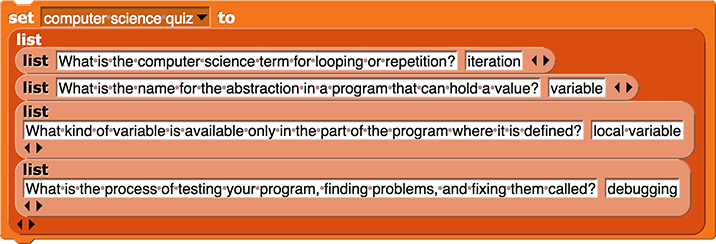
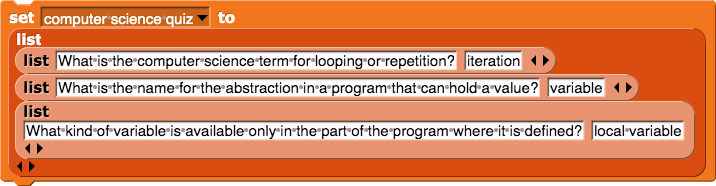
2.2 and 2.4 work with BH

diff --git a/cur/programming/2-complexity/2-data-structures-art/2-quizzes.html b/cur/programming/2-complexity/2-data-structures-art/2-quizzes.html
@@ -24,23 +24,25 @@ Decide what type of quiz you would like to build, and write three to five questi
 		</div>
         
         <p>
-            You'll use a list to store your quiz items in a variable. You could just put all the questions and their answers in a list like this and then use <img src="/bjc-r/img/blocks/item-empty-full-size.png" height="35" alt="item () of 'list input slot'" title="item () of 'list input slot'"> to retrieve each question and answer:  <br />
-            <img class="indent" src="/bjc-r/img/2-complexity/quiz-questions-list.png" alt="set (computer science quiz) to (list (What is the computer science term for looping or repetition?) (iteration) (What is the name for the abstraction in a program that can hold a value?) (variable) (What kind of variable is available only in the part of the program where it is defined?) (local variable) (What is the process of testing your program, finding problems, and fixing them called?) (debugging))" title="set (computer science quiz) to (list (What is the computer science term for looping or repetition?) (iteration) (What is the name for the abstraction in a program that can hold a value?) (variable) (What kind of variable is available only in the part of the program where it is defined?) (local variable) (What is the process of testing your program, finding problems, and fixing them called?) (debugging))"><br />
-            That might be ok for the first quiz item (you could use <img class="inline nopadtb" src="/bjc-r/img/2-complexity/item-1-of-csquiz.png" alt="item (1) of (computer science quiz)" title="item (1) of (computer science quiz)"> to get the first question and <img class="inline nopadtb" src="/bjc-r/img/2-complexity/item-2-of-csquiz.png" alt="item (2) of (computer science quiz)" title="item (2) of (computer science quiz)"> to get the first answer), but for the third quiz item, you'd need list items five and size, and that approach is inelegant and prone to errors.
+            You'll use a list to store your quiz items in a variable. You <em>could</em> just put all the questions and their answers in a list like this and then use <img src="/bjc-r/img/blocks/item-empty-full-size.png" height="35" alt="item () of 'list input slot'" title="item () of 'list input slot'"> to retrieve each question and answer:  <br />
+            <img class="indent" src="/bjc-r/img/2-complexity/quiz-questions-list.png" alt="set (computer science quiz) to (list (What is the computer science term for looping or repetition?) (iteration) (What is the name for the abstraction in a program that can hold a value?) (variable) (What kind of variable is available only in the part of the program where it is defined?) (local variable))" title="set (computer science quiz) to (list (What is the computer science term for looping or repetition?) (iteration) (What is the name for the abstraction in a program that can hold a value?) (variable) (What kind of variable is available only in the part of the program where it is defined?) (local variable))"><br />
+            That might be ok for the first quiz item (you could use <img class="inline nopadtb" src="/bjc-r/img/2-complexity/item-1-of-csquiz.png" alt="item (1) of (computer science quiz)" title="item (1) of (computer science quiz)"> to get the first question and <img class="inline nopadtb" src="/bjc-r/img/2-complexity/item-2-of-csquiz.png" alt="item (2) of (computer science quiz)" title="item (2) of (computer science quiz)"> to get the first answer), but for the third quiz item, you'd need list items five and six, and that approach is inelegant and prone to errors.
         </p>
+        <div class="vocab">: <strong>Sublist</strong> 
+            <p>A <strong>sublist</strong> is a list inside another list.</p>
+        </div>
         <p>
-            Instead, you can use a separate list for each quiz item (each question/answer pair) to keep things more organized. Then you could choose one of those lists at a time to work with.
-            <a href="#hint-separate" data-toggle="collapse" title="Click for an example of using a separate list for each quiz item.">Click for an example of using a separate list for each quiz item.</a>
-            <div id="hint-separate" class="collapse">
-                <img class="indent" src="/bjc-r/img/2-complexity/quiz-questions-list-of-lists.png" alt="set (computer science quiz) to (list (list (What is the computer science term for looping or repetition?) (iteration)) (list (What is the name for the abstraction in a program that can hold a value?) (variable)) (list (What kind of variable is available only in the part of the program where it is defined?) (local variable)) (list (What is the process of testing your program, finding problems, and fixing them called?) (debugging)))" title="set (computer science quiz) to (list (list (What is the computer science term for looping or repetition?) (iteration)) (list (What is the name for the abstraction in a program that can hold a value?) (variable)) (list (What kind of variable is available only in the part of the program where it is defined?) (local variable)) (list (What is the process of testing your program, finding problems, and fixing them called?) (debugging)))">
-            </div>
+            Instead, you can use a <em>sublist</em> for each question/answer pair. Then you could choose one of those lists at a time to work with.<br />
+            <img class="indent" src="/bjc-r/img/2-complexity/quiz-questions-list-of-lists.png" alt="set (computer science quiz) to (list (list (What is the computer science term for looping or repetition?) (iteration)) (list (What is the name for the abstraction in a program that can hold a value?) (variable)) (list (What kind of variable is available only in the part of the program where it is defined?) (local variable)))" title="set (computer science quiz) to (list (list (What is the computer science term for looping or repetition?) (iteration)) (list (What is the name for the abstraction in a program that can hold a value?) (variable)) (list (What kind of variable is available only in the part of the program where it is defined?) (local variable)))">
         </p>
+        <div class="todo">Give them a snippet of code with ask and answer (but not foreach) and an item (item()) to sell that there is a better way.</div>
         <p>
-            But an even for elegant solution is to use abstraction. You could even create a custom block that makes a quiz item so it's easier to see which values are the questions, which are the answers, and what is paired with what:<br />
+            This approach can be further improved with abstraction. You could create a custom block to make your code easier to read.<br />
             <img class="indent" src="/bjc-r/img/2-complexity/quiz-questions-constructor-definition.png" alt="quiz item, question: (question) answer: (answer) {report (list (question) (answer))}" title="quiz item, question: (question) answer: (answer) {report (list (question) (answer))}">
-            <img class="indent" src="/bjc-r/img/2-complexity/quiz-questions-list-of-adts.png" alt="set (computer science quiz) to (list (question: (What is the computer science term for looping or repetition?) answer: (iteration)) (question: (What is the name for the abstraction in a program that can hold a value?) answer: (variable)) (question: (What kind of variable is available only in the part of the program where it is defined?) answer: (local variable)) (question: (What is the process of testing your program, finding problems, and fixing them called?) answer: (debugging)))" title="set (computer science quiz) to (list (question: (What is the computer science term for looping or repetition?) answer: (iteration)) (question: (What is the name for the abstraction in a program that can hold a value?) answer: (variable)) (question: (What kind of variable is available only in the part of the program where it is defined?) answer: (local variable)) (question: (What is the process of testing your program, finding problems, and fixing them called?) answer: (debugging)))">
+            <img class="indent" src="/bjc-r/img/2-complexity/quiz-questions-list-of-adts.png" alt="set (computer science quiz) to (list (question: (What is the computer science term for looping or repetition?) answer: (iteration)) (question: (What is the name for the abstraction in a program that can hold a value?) answer: (variable)) (question: (What kind of variable is available only in the part of the program where it is defined?) answer: (local variable)))" title="set (computer science quiz) to (list (question: (What is the computer science term for looping or repetition?) answer: (iteration)) (question: (What is the name for the abstraction in a program that can hold a value?) answer: (variable)) (question: (What kind of variable is available only in the part of the program where it is defined?) answer: (local variable)))">
         </p>
     <div class="todo">The alt/title text on the second image just above needs attention. Also, should that image have fewer questions? --MF, 7/2/19</div>
+        <div class="todo">constructor makes it certain that every time you use it, you build the thing in the right order.</div>
         
         
         

diff --git a/cur/programming/2-complexity/4-making-computers-do-math/1-math-predicates.html b/cur/programming/2-complexity/4-making-computers-do-math/1-math-predicates.html
@@ -12,13 +12,14 @@
             <p>There is a <strong>todo</strong> for after the 2018-2019 upload in ifTime --MF, 12/19/18</p>
             <p>BH and Mary need to talk about Katex style. --MF, 9/12/18</p>
         </div>
+        <div class="todo"><h1>Brian, we discussed making triangular and factorial ITIT since they aren't as useful and instead building max, min, avg, and sum <em>of list</em> blocks because those will be useful in data processing. Please check that they aren't built elsewhere first though. --MF, 7/3/19</h1></div>
         <div class="learn"><strong>In this project</strong>, you will create a collection of math tools building on the blocks you built in <a href="/bjc-r/cur/programming/2-complexity/3-predicates/1-adding-questions.html?topic=nyc_bjc%2F2-conditionals-abstraction.topic&course=bjc4nyc.html&novideo&noassignment" title="Lab 3 Page 1: What's a Predicate?">Lab 3 Page 1: What's a Predicate?</a>.</div>
 
         <p>You've already seen some mathematical predicates in Unit 2 Lab 3: <code>&le;</code>, <code>between?</code>, <code>divisible?</code>, and others.</p>
 		        
         <div class="forYouToDo" id="first">
             <ol>
-				<div class="todo">Why export and start new project, rather than load project and save with new name?  That would avoid the Obsolete business. -bh</div>
+				<div class="todo">Have them export all (since there aren't any tools) and remove anything they don't need. But first look through 2.3 for whether there will be un-mathy stuff there... --MF, 7/3/19</div>
                 <li>Export all of the custom blocks from your U2L3-Predicates project. (These should include <code>between?</code>, <code>divisible?</code>, <code>even?</code>,  <code>&le;</code>, <code>&ge;</code>, <code>&ne;</code>, and perhaps also <code>integer?</code> if you had time to build it.) </li>
                 <div class="endnote">
                     <p>You learned how to export and import blocks in <a href="/bjc-r/cur/programming/2-complexity/1-variables-games/old/4-importing-exporting.html?topic=nyc_bjc%2F2-conditionals-abstraction.topic&course=bjc4nyc.html&novideo&noassignment" title="Importing Greet Player into Another Program">Unit 2 Lab 1 Page 4: Importing <code>Greet Player</code> into Another Program</a>.</p>
@@ -26,10 +27,9 @@
                     <p>If your imported <img class="inline" src="/bjc-r/img/2-complexity/even-predicate.png" alt="even?" title="even?" /> block looks like <img class="inline" src="/bjc-r/img/blocks/obsolete.png" alt="Obsolete!" title="Obsolete!" /> instead, review the section about "<a href="/bjc-r/cur/programming/2-complexity/5-abstraction/3-brick-wall.html?topic=nyc_bjc%2F2-conditionals-abstraction.topic&course=bjc4nyc.html&novideo&noassignment#dependencies" title="Debugging Dependencies">Debugging Dependencies</a>" on the Brick Wall page.</p>
                     <div class="todo">They haven't seen that page yet. --MF, 6/12/19</div>
                 </div>
-                <li><div class="newProject inline"><span class="text">"U2-MathTools"</span><img src="/bjc-r/img/icons/new-project-called.png" alt="Start a New Project called U2-MathTools" title="Start a New Project called U2-MathTools" /></div></li>
+                <li><div class="newProject inline"><span class="text">"U2L4-MathTools"</span><img src="/bjc-r/img/icons/new-project-called.png" alt="Start a New Project called U2L4-MathTools" title="Start a New Project called U2L4-MathTools" /></div></li>
                 <li>Import those blocks into your new project file, test them and resolve any issues, and save.</li>
                 <li>
-                    <div class="comment">I made this a picture so that seeing the numeric input slot would help them. --bh</div>
                     Develop a <img src="/bjc-r/img/2-complexity/number-of-divisors.png" alt="number of divisors reporter with numeric input slot" title="number of divisors reporter with numeric input slot"> block (using <code>keep</code>), and use it to answer these questions: 
                     <ul style="list-style-type: disc">
                         <li><strong>What kinds of numbers have an odd number of divisors?</strong></li>
@@ -89,8 +89,7 @@
         <p>
             Notice that the empty input slots in each function are filled by the output of the previous function (or filled by the starting data in the case of the first function): 
             <ul>
-                <div class="comment">This <code>numbers</code> image should have a 1 in the first input slot. --MF, 6/27/19</div>
-                <li>The empty slot in the <img class="inline" src="/bjc-r/img/blocks/numbers-from-to.png" alt="numbers from () to ()" title="numbers from () to ()" /> function is filled by <var>input number</var>.</li>
+                <li>The empty slot in the <img class="inline" src="/bjc-r/img/2-complexity/numbers-from-1-to.png" alt="numbers from (1) to ()" title="numbers from (1) to ()" /> function is filled by <var>input number</var>.</li>
                 <li>The empty list input slot (<img class="inline" src="/bjc-r/img/sys/list-input-slot.png" alt="list input slot (small white square with two small, orange, horizontal rectangles inside)" title="list input slot (small white square with two small, orange, horizontal rectangles inside)" />) in <img class="nopadtb" src="/bjc-r/img/2-complexity/keep-for-pipe.png" alt="keep items such that ((input number) divisible by ()?) from ()" title="keep items such that ((input number) divisible by ()?) from ()" /> is filled by the output of <code>numbers</code>.</li>
                 <ul>
                     <li>As usual, the blank input slot in the predicate for <code>keep</code> (that is, in <img class="inline" src="/bjc-r/img/2-complexity/divisible-for-pipe.png" alt="(input number) divisible by ()?" title="(input number) divisible by ()?" />) is filled by each item of <code>keep</code>'s input list (here, the output of <code>numbers</code>) so that <code>keep</code> can decide whether each number will be kept.</li>

diff --git a/cur/programming/2-complexity/2-data-structures-art/1-shopping-list-app.html b/cur/programming/2-complexity/2-data-structures-art/1-shopping-list-app.html
@@ -38,7 +38,6 @@
         </div>
     
         <div class="vocabBig">
-            <div class="todo">BH, I added a sentence here. Edits? --MF, 7/2/19</div>
             <p>An <strong>element</strong> is another name for an item in a list. It's an individual value in a list.</p>
             <div class="todo">AAP-1.C.2</div>
         </div>
@@ -58,24 +57,23 @@
         
         <div class="forYouToDo">
             <ol start="4">
-                <div class="sidenoteBig">You've seen the <code>ask</code> and <code>answer</code> blocks on <a href="/bjc-r/cur/programming/2-complexity/1-variables-games/2-checking-player-guess.html?topic=nyc_bjc%2F2-conditionals-abstraction.topic&course=bjc4nyc.html&novideo&noassignment" title="Unit 2 Lab 1 Page 2: Checking the Player's Guess">Unit 2 Lab 1 Page 2: Checking the Player's Guess</a>.</div>
-                <div class="todo">Are we sure they are comfortable writing code for different sprites? Might they need a reminder? --MF, 7/2/19</div>
+                <div class="sidenoteBig">
+                    <p>You've seen the <code>ask</code> and <code>answer</code> blocks on <a href="/bjc-r/cur/programming/2-complexity/1-variables-games/2-checking-player-guess.html?topic=nyc_bjc%2F2-conditionals-abstraction.topic&course=bjc4nyc.html&novideo&noassignment" title="Unit 2 Lab 1 Page 2: Checking the Player's Guess">Unit 2 Lab 1 Page 2: Checking the Player's Guess</a>.</p>
+                    <p>You've worked with multiple sprites on <a href="/bjc-r/cur/programming/1-introduction/2-gossip-and-greet/1-gossip.html?topic=nyc_bjc%2F1-intro-loops.topic&course=bjc4nyc.html&novideo&noassignment" title="Unit 1 Lab 2 Page 2: Making Programs Talk">Unit 1 Lab 2 Page 2: Making Programs Talk</a>.</p>
+                </div>
                 <li>
                     Write a script for the "Add Item" button so that when that sprite is clicked, it will ask the user for a new item, and then add (or insert) the user's answer into the grocery list. 
                 </li>
                 <li>Test your "Add Item" button several times and fix any problems.</li>
                 <li>Write a script for the "Clear List" button that asks the user if they're sure and then sets <var>shopping list</var> back to an empty list.</li>
-                <div class="todo">Have we told them that they can drag code onto another sprite and it will duplicate it there? If not, here is a nice place. --MF, 7/2/19</div>
                 <img class="imageRight" src="/bjc-r/img/icons/save-now.png" alt="Now Is a Good Time to Save" title="Now Is a Good Time to Save" />
                 <li>Test your "Clear List" button and fix it if needed.</li>
             </ol>
         </div>
         
-        <div class="todo">How do we imagine they will build code for the search button? They haven't learned <code>keep</code>. I suggest cutting that. --MF, 7/2/19</div>
         <div class="takeItFurther">
             <ol type="A">
-                <li>Improve the "Add Item" button to add new items only if they are not already on the list. You can use <img class="inline nopadtb" src="/bjc-r/img/blocks/contains-empty.png" alt="'list input slot' contains ()" title="'list input slot' contains ()" /> to see if an item is already on the list.</li>
-                <li>Write a script for the "Search" button that tells the user whether an item is already on the list (but doesn't add the item).  </li>
+                <li>Write a script for the "Search" button that tells the user whether an item is already on the list.  You can use <img class="inline nopadtb" src="/bjc-r/img/blocks/contains-empty.png" alt="'list input slot' contains ()" title="'list input slot' contains ()" /> to see if an item is already on the list.</li>
                 <div class="endnote">There is a Search button sprite already in your file. You can use  <img class="inline nopadtb" src="/bjc-r/img/blocks/show.png" alt="show" title="show" /> to see it. </div>
             </ol>
         </div>

diff --git a/cur/programming/2-complexity/4-making-computers-do-math/2-other-math-reporters.html b/cur/programming/2-complexity/4-making-computers-do-math/2-other-math-reporters.html
@@ -17,26 +17,13 @@
             <img class="indent" src="/bjc-r/img/3-lists/sum-from-4-to-6-reporting.png" alt="sum from (4) to (6) reporting 15" title="sum from (4) to (6) reporting 15" />
         </div>
 
-	<div class="todo">All this is obsolete; they'll just continue the project they started on the previous page. -bh
                 
         <div class="forYouToDo" id="first">
-			<div class="todo">If we de-optionalize the U2 Math Tools project, then we need to edit this problem, the <code>max</code>/<code>min</code> problem, and the TIF accordingly. --MF, 9/28/18</div>
             <ol>
-				<li>
-                    <p>If you have a U2-MathTools project, open it, and save it as U3-MathTools.</p>
-                    <p>If you don't:
-                        <ol>
-                            <div class="todo">Need to correct reference to actual page number --MF, 3/25/19</div>
-                            <li>Go to <a href="/bjc-r/cur/programming/2-complexity/4-making-computers-do-math/1-math-predicates.html" title="Unit 2 Optional Project: Making Computers Do Math">Unit 2 Optional Project: Making Computers Do Math</a> and do exercise 1 (exporting).</li>
-                            <li><div class="newProject inline"><span class="text">"U3-MathTools"</span><img src="/bjc-r/img/icons/new-project-called.png" alt="Start a New Project called U3-MathTools" title="Start a New Project called U3-MathTools" /></div></li>
-                            <li>Import those blocks into your new project file, test them and resolve any issues, and save.</li>
-                        </ol>
-                    </p>
-                </li>
+				<li>Open your U2L4-MathTools project if it isn't open already.</li>
 			</ol>
 		</div>
 
-	</div>
 		
         <p>
             The <strong>triangular number</strong> function <em>adds</em> all of the whole numbers from 1 through the input number. So <code>triangular number (</code><var>n</var><code>)</code> reports <span class="katex">1 + 2 + 3 + \cdots + (n - 1) + n</span>.<br />
